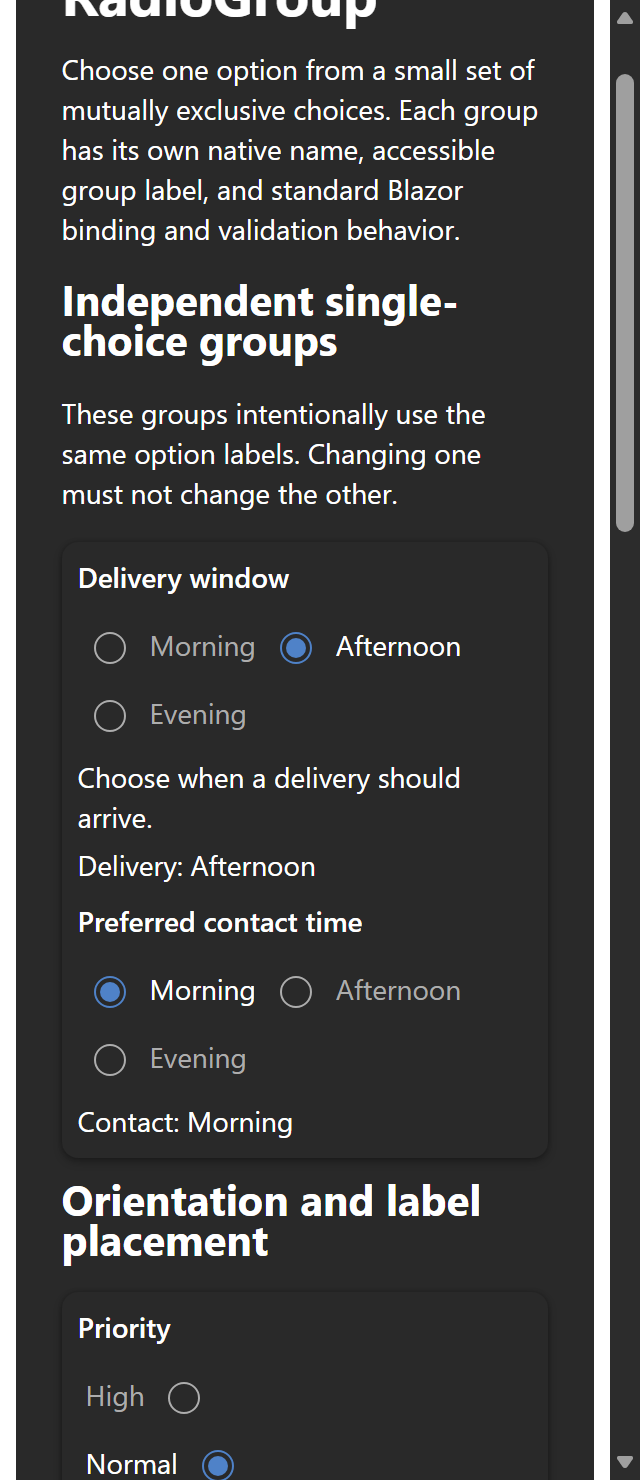
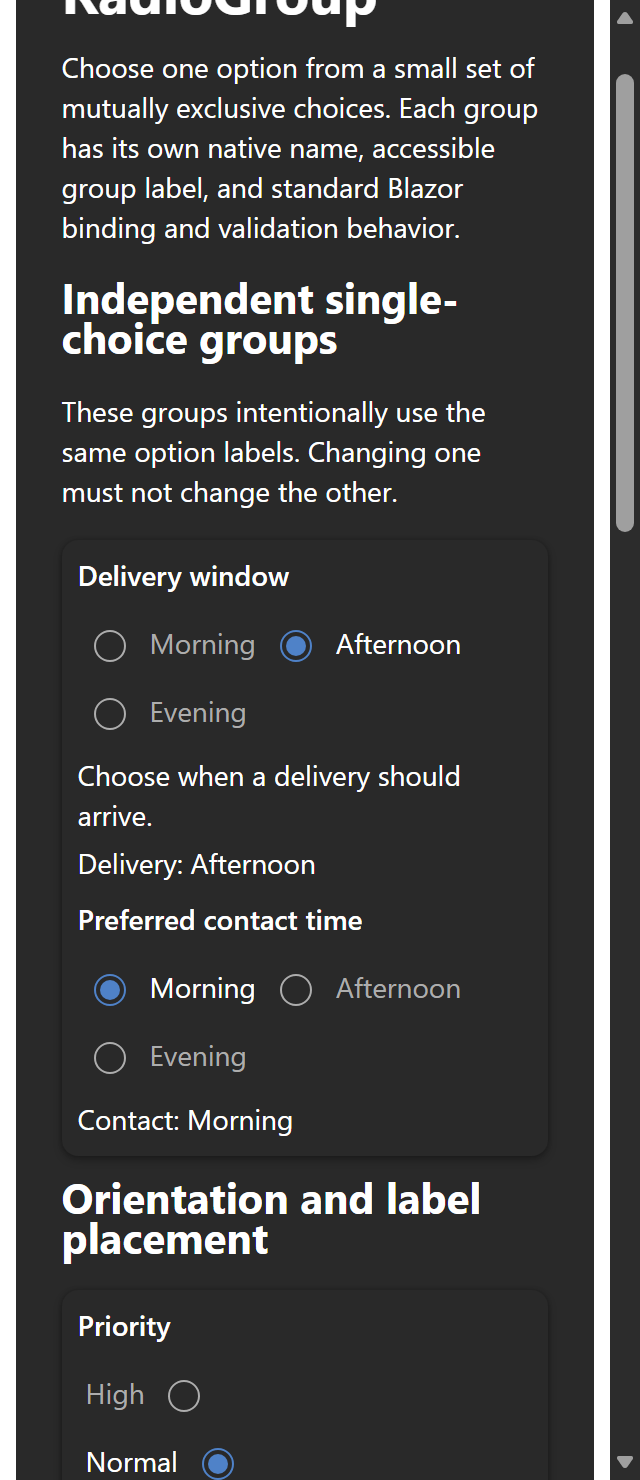
fix(v3): make RadioGroup indicator a native pointer target (#436)

diff --git a/src/Bluent.UI/Styles/Components/_radio.scss b/src/Bluent.UI/Styles/Components/_radio.scss
@@ -68,7 +68,7 @@
                         background-color: currentcolor;
                     }
 
-                    + label {
+                    + label.option-label {
                         color: var(--colorNeutralForeground1);
                     }
                 }
@@ -100,7 +100,7 @@
                     border-color: var(--colorNeutralStrokeDisabled);
                     color: var(--colorNeutralForegroundDisabled);
 
-                    + label {
+                    + label.option-label {
                         color: var(--colorNeutralForegroundDisabled);
                         cursor: default;
                     }
@@ -126,7 +126,7 @@
             color: inherit;
         }
 
-        > label {
+        > label.option-label {
             align-self: center;
             margin-block-start: calc((16px - var(--lineHeightBase300)) / 2);
             padding: var(--spacingVerticalS) var(--spacingHorizontalXS);
@@ -149,7 +149,7 @@
                 order: 2;
             }
 
-            > label {
+            > label.option-label {
                 order: 1;
             }
         }

diff --git a/tests/RegexSampleGeneratorTest/RadioGroupRenderSemanticsTests.cs b/tests/RegexSampleGeneratorTest/RadioGroupRenderSemanticsTests.cs
@@ -52,7 +52,9 @@ public class RadioGroupRenderSemanticsTests
             Assert.That(markup, Does.Contain("aria-describedby=\"delivery-help\""));
             Assert.That(markup, Does.Contain("data-qa=\"delivery-group\""));
             Assert.That(markup, Does.Not.Contain("<fieldset name="));
-            Assert.That(markup, Does.Contain("<span class=\"indicator\" aria-hidden=\"true\"></span>"));
+            Assert.That(markup, Does.Contain("<label class=\"indicator\" for=\""));
+            Assert.That(markup, Does.Contain("aria-hidden=\"true\"></label>"));
+            Assert.That(markup, Does.Contain("<label class=\"option-label\" for=\""));
         });
     }
 
@@ -150,7 +152,7 @@ public class RadioGroupRenderSemanticsTests
             Assert.That(markup, Does.Contain("aria-label=\"Preferred contact method\""));
             Assert.That(markup, Does.Not.Contain("<legend"));
             Assert.That(GetAttribute(GetInputTags(markup).Single(), "aria-label"), Is.Null);
-            Assert.That(markup, Does.Contain("<label for="));
+            Assert.That(markup, Does.Contain("<label class=\"option-label\" for="));
         });
     }
 

diff --git a/scripts/quality/check_v3_component_lab.py b/scripts/quality/check_v3_component_lab.py
@@ -361,6 +361,11 @@ def check() -> int:
         assert f'class="{label}" role="status" lang="en" dir="ltr"' in source
     assert '.lab-canvas[dir="rtl"] .lab-radio-card p { text-align:right; }' in css
     assert "RTL Radio English statuses keep LTR punctuation and align right within spaced cards" in (ROOT/"scripts/quality/probe_v3_component_lab.mjs").read_text(encoding="utf-8-sig")
+    radio_probe = (ROOT/"scripts/quality/probe_v3_component_lab.mjs").read_text(encoding="utf-8-sig")
+    for selector in ("#lab-radio-pm + .indicator", "#lab-radio-low + .indicator",
+                     "#lab-radio-disabled + .indicator"):
+        assert selector in radio_probe, f"RadioGroup pointer probe must target the current native indicator: {selector}"
+    assert "label.indicator[for=lab-radio-pm]" not in radio_probe, "stale pre-native RadioGroup indicator selector must not return"
     radio_queue=next(e for e in json.loads(QUEUE.read_text(encoding="utf-8-sig"))["families"]
                      if e["family"]=="RadioGroup")
     assert radio_queue["scenarioId"] == "radio-group-choice-orientation-disabled"

diff --git a/scripts/quality/check_v3_radiogroup_contract.py b/scripts/quality/check_v3_radiogroup_contract.py
@@ -55,6 +55,10 @@ def check_radiogroup_contract(root: Path = ROOT) -> None:
                   ' value="@GetInputValue()"', 'checked="@IsChecked"', 'id="@Id"',
                   '@onchange="HandleOnChange"'):
         need(token in radio, f"native radio markup missing: {token}")
+    need('<label class="indicator" for="@Id" aria-hidden="true"></label>' in radio,
+         "radio indicator must be a native associated label so its visual hit target activates the input")
+    need('<label class="option-label" for="@Id">@Label</label>' in radio,
+         "radio option text must remain the accessible native label")
     for token in ("EditorRequired", "CultureInfo.InvariantCulture",
                   "OnValueChanged += OnValueChanged", "OnValueChanged -= OnValueChanged",
                   'attributes["aria-invalid"] = "true"'):

diff --git a/docs/v3/design/RADIOGROUP-DESIGN-AND-API-CONTRACT.md b/docs/v3/design/RADIOGROUP-DESIGN-AND-API-CONTRACT.md
@@ -13,7 +13,7 @@
 
 | Board | Penpot ID | Design intent | Implementation relation |
 |---|---|---|---|
-| Anatomy, visual states and API | 0125a79e-69b2-807f-8008-f726bd61b423 | fieldset / legend, native option label/input anatomy, horizontal and vertical composition, rest/selected/focus/disabled states and API boundary | Source uses native fieldset / legend; group/option inputs remain native; existing orientation and label-position API is preserved |
+| Anatomy, visual states and API | 0125a79e-69b2-807f-8008-f726bd61b423 | fieldset / legend, native indicator-label and text-label/input anatomy, horizontal and vertical composition, rest/selected/focus/disabled states and API boundary | Source uses native fieldset / legend; group/option inputs remain native; existing orientation and label-position API is preserved |
 | Keyboard and accessibility | 0125a79e-69b2-807f-8008-f726c1464f5d | Tab entry, arrow traversal, Space, disabled skipping, independent group names, accessible name, EditContext and attribute ownership | Actual CDP tests exercise all listed keyboard behavior, two-group isolation, Chromium accessibility tree and live validation |
 | RTL, responsive and state matrix | 0125a79e-69b2-807f-8008-f726c665a5cf | Persian/RTL ordering, 1440/768/320/390 viewport concepts, Light/Dark/High Contrast and Rest/Selected/Hover/Pressed/Focus/Disabled/Invalid states | RTL and 320px/1280px browser checks are retained; theme/forced-colors checks are browser-emulated and do not approve design colors or native OS contrast |
 
@@ -24,6 +24,8 @@ The anatomy proposal calls for a shared native name, an actual native option val
 The design uses the semantic HTML fieldset / legend pattern instead of a custom div[role=radiogroup]. This is intentional: the child controls remain native radio inputs, the browser owns grouping through the shared name, and the component keeps its existing typed InputBase binding. No extra ARIA radiogroup role or custom JavaScript keyboard system is required for this implementation.
 
 When Label is non-empty, it becomes the visible legend. When the visual legend is omitted, the consumer must pass aria-label or aria-labelledby to the group. Each option needs its own accessible name via Radio.Label or a supported native accessible-name attribute.
+
+Each Radio uses two labels associated with the same native input: the 16px visual indicator is a second `label.indicator[for]` with `aria-hidden="true"` (so the decorative circle remains a real pointer hit target), while the separate `.option-label[for]` carries the visible/readable caption. This preserves native label activation for both `ItemsLabelPosition.Before` and `After`; the indicator itself is not announced as a duplicate option name.
 
 ## API preservation and attribute precedence
 
@@ -37,7 +39,7 @@ The local real-browser test matrix is four separate cells: Chrome/WebAssembly, E
 
 The first server 320px run caught overflow from the demo's unwrapped copyable pre/code specimen, not from RadioGroup. The showcase now has scoped pre wrapping, and the original full-page no-overflow assertion remains enabled.
 
-These browser assertions do not provide native Windows Contrast Themes, physical screen-reader speech, VoiceOver/NVDA/Narrator acceptance, or final Penpot visual approval.
+A native Windows High Contrast smoke check was also performed on Dev01 (Windows 11 Pro build 28000): the OS `High Contrast White` scheme was toggled on via Win32, the live component was captured, and the Windows UI Automation tree exposed named groups and named radio buttons with correct selected/disabled state. See `docs/v3/quality/evidence/BLUENT-RADIOGROUP-WINDOWS-NATIVE.md` and the retained PNG. The original High Contrast flags (126, disabled) were restored after the capture. Narrator was launched, but spoken speech could not be independently audited; spoken Narrator/NVDA/VoiceOver acceptance is still open. The three Penpot boards remain DRAFT and have no maintainer sign-off.
 
 ## Token and foundation boundary
 
@@ -47,5 +49,5 @@ Only already-shipped source CSS roles are used. No preview-only #418 alias is co
 
 - Maintainer visual review/sign-off on the three editable DRAFT Penpot boards.
 - Exact-head GitHub Actions for the implementation PR.
-- Native OS high-contrast and named assistive-technology review.
+- Spoken screen-reader acceptance (Narrator/NVDA/VoiceOver); native High Contrast and Windows UIA semantics have a recorded smoke check, not full conformance sign-off.
 - Full public component-family acceptance and the wider #421 ledger remain separate from this task's own four-cell browser evidence.

diff --git a/docs/v3/components/radio-group.md b/docs/v3/components/radio-group.md
@@ -54,7 +54,9 @@ With a non-empty Label, the group renders a native fieldset with an associated l
 Every nested option renders a native input[type=radio] with:
 - the same name as its sibling options;
 - its own native value;
-- a stable generated id and associated label;
+- a stable generated id and associated labels;
+- a 16px visual indicator implemented as a second native `<label for="…">` hit target with `aria-hidden="true"`, so clicking the indicator activates the input even when the text caption is positioned before it;
+- a separate `.option-label` native label that supplies the visible/readable option name;
 - native disabled state when disabled at group or option level.
 
 No custom JavaScript keyboard layer is used. The real-browser matrix verifies that the browser keeps the selected radio as the single Tab stop, enters an unselected group at its first enabled option, moves with Arrow keys, wraps within that group, skips disabled options, and selects with Space. Two adjacent groups that repeat the same values remain independent because their names differ.
@@ -113,7 +115,7 @@ This is a runnable v3 task-branch example, not an instruction to install an unre
 
 Aggregate local browser evidence: **104/104 assertions**. Each browser cell also captured initial/320px/1280px PNGs and a JSON report under docs/v3/quality/evidence/. Assertions include the actual Chromium accessibility tree, native Tab/Arrow/Space/pointer input, independent group names, native form FormData, EditContext invalidation, RTL, dark-theme CSS computation, forced-colors emulation and 320px no-overflow/hit-target checks.
 
-Evidence boundaries: forced-colors is browser emulation, not native Windows Contrast Themes. Dark mode was checked through the host theme attribute and computed styles, not every brand/mode. Native Narrator/NVDA/VoiceOver speech, native OS contrast, and an independent Penpot reviewer sign-off have **not** been completed. Screenshots are retained evidence, not a claim of approved pixel parity.
+Native Windows evidence (Dev01, Windows 11 Pro build 28000): the real `High Contrast White` scheme was enabled through `SystemParametersInfo(SPI_SETHIGHCONTRAST)`, the live RadioGroup page was captured in that OS mode, and the Windows UI Automation tree exposed named `group` and `radiobutton` controls with option names, selected state and disabled state. The screenshot is retained at `docs/v3/quality/evidence/BLUENT-RADIOGROUP-WINDOWS-HIGH-CONTRAST.png`; the native setting was restored to its original disabled state (flags 126) immediately after capture. This is a native OS visual/UIA smoke check, not complete Windows High Contrast Themes conformance certification. Narrator was launched, but spoken output could not be independently audited; Narrator/NVDA/VoiceOver spoken acceptance remains open. The three Penpot boards also remain DRAFT pending independent visual sign-off. Screenshots are retained evidence, not a claim of approved pixel parity.
 
 ## 2.x → v3 migration boundary
 
@@ -123,4 +125,4 @@ See [migration impact M24](../design/MIGRATION-IMPACT-LEDGER.md) and the separat
 
 ## Acceptance boundary
 
-The component is still **In progress**. The three editable Penpot Page 59 boards — anatomy/API (0125a79e-69b2-807f-8008-f726bd61b423), keyboard/accessibility (0125a79e-69b2-807f-8008-f726c1464f5d), and RTL/responsive coverage (0125a79e-69b2-807f-8008-f726c665a5cf) — remain DRAFT pending maintainer visual review. Exact-head hosted CI, native OS contrast and assistive-technology acceptance remain separate gates. This task does not close #418 or #421, approve preview tokens, merge into stable Dev, publish NuGet or deploy.
+The component is still **In progress**. The three editable Penpot Page 59 boards — anatomy/API (0125a79e-69b2-807f-8008-f726bd61b423), keyboard/accessibility (0125a79e-69b2-807f-8008-f726c1464f5d), and RTL/responsive coverage (0125a79e-69b2-807f-8008-f726c665a5cf) — remain DRAFT pending maintainer visual review. Exact-head hosted CI for the latest pointer-label patch and spoken assistive-technology acceptance remain open; native High Contrast and Windows UIA semantics have been exercised and recorded separately. This task does not close #418 or #421, approve preview tokens, merge into stable Dev, publish NuGet or deploy.

diff --git a/.agents/skills/bluent-v3-radiogroup/SKILL.md b/.agents/skills/bluent-v3-radiogroup/SKILL.md
@@ -23,6 +23,7 @@
 - Native type, name, value, checked, generated id and tabindex are component-owned. Preserve other non-conflicting attributes, including disabled, aria-*, data-* and title.
 - EditContext.OnValidationStateChanged subscription is synchronized as context changes and removed on disposal. Children rerender aria-invalid when validation messages change.
 - Keep browser-owned keyboard behavior. Do not add custom JavaScript unless a real browser test demonstrates a required native behavior that fails.
+- The visual indicator is itself a second native `label.indicator[for]` with `aria-hidden="true"`; the readable caption is a separate `.option-label[for]`. Preserve this association so the visible circle activates the native radio in both Before and After layouts.
 - Do not invent Size, Appearance, HelperText, ErrorMessage, Required, public Name, keyboard-mode or ARIA-role parameters. Do not consume preview-only #418 token aliases.
 
 ## Verification
@@ -36,7 +37,7 @@ dotnet build src/Bluent.UI.Demo/Bluent.UI.Demo.csproj -c Debug --no-restore -war
 dotnet build src/Bluent.UI.Demo.SSR/Bluent.UI.Demo.SSR.csproj -c Release --no-restore -warnaserror
 ~~~
 
-The current four-cell local real-browser baseline is **26/26 per cell (104/104 total)**. This covers browser AX, native Tab/Arrow/Space, disabled skipping, pointer binding, EditContext and native form submission, RTL, forced-colors emulation and 320px reflow. Forced-colors emulation is not native Windows Contrast Themes; Chromium AX is not spoken screen-reader acceptance. See JSON/PNG reports under docs/v3/quality/evidence/.
+The current four-cell local real-browser baseline is **26/26 per cell (104/104 total)**. This covers browser AX, native Tab/Arrow/Space, disabled skipping, pointer binding, EditContext and native form submission, RTL, forced-colors emulation and 320px reflow. Forced-colors emulation is not native Windows Contrast Themes. A native Windows 11 Pro 28000 High Contrast White smoke check and Windows UIA tree inspection are now recorded in `docs/v3/quality/evidence/BLUENT-RADIOGROUP-WINDOWS-NATIVE.md` with PNG evidence; original OS flags were restored. Narrator was launched, but spoken output was not independently verified. Chromium AX/UIA tree semantics are not spoken screen-reader acceptance. See JSON/PNG reports under docs/v3/quality/evidence/.
 
 ## Ownership and finish rule
 

diff --git a/docs/v3/quality/evidence/BLUENT-RADIOGROUP-WINDOWS-NATIVE.md b/docs/v3/quality/evidence/BLUENT-RADIOGROUP-WINDOWS-NATIVE.md
@@ -1,0 +1,30 @@
+# RadioGroup — native Windows accessibility smoke evidence
+
+**Date:** 2026-11-19
+**Host:** Dev01 · Microsoft Windows 11 Pro · build 28000
+**Target:** `http://127.0.0.1:59000/components/radios` in Microsoft Edge
+**Component source:** task branch `v3/issue-436-radiogroup`
+
+## Native High Contrast
+
+- The original Windows `HIGHCONTRAST.dwFlags` value was `126` (`High Contrast White` selected, enable bit clear).
+- `SystemParametersInfoW(SPI_SETHIGHCONTRAST)` enabled the actual OS High Contrast White mode; a second native read returned flags `127` with the enable bit set.
+- The live RadioGroup page was captured while that OS flag was active. Retained capture: `BLUENT-RADIOGROUP-WINDOWS-HIGH-CONTRAST.png` (1004 × 700).
+- A `finally` restoration call returned the exact original flags `126`; a native read verified High Contrast disabled again. Narrator was also stopped after the check.
+
+This is an actual OS-level visual smoke capture, not the browser `forced-colors` emulation used by the four-cell CDP suite. It does not by itself certify all theme colors or every Windows contrast palette.
+
+## Windows UI Automation semantics
+
+The `windows-uia` tree for the live page exposed native groups and options rather than flattened text:
+
+- `Delivery window` → `Morning` (selected), `Afternoon`, `Evening`.
+- `Preferred contact time` → `Morning`, `Afternoon`, `Evening` (selected).
+- Other groups included `Priority`, `Delivery speed`, `Availability`, `Quiet hours preference`, `Alert frequency`, RTL language selection and `Choose a delivery window`.
+- Options surfaced as `radiobutton` with their accessible option name, `selected` state and `enabled` state; the disabled `Express` / `Unavailable` options were reported disabled.
+
+This verifies the native Windows UIA roles/names/state exposed by the component in the inspected tree. It is not spoken assistive-technology acceptance.
+
+## Screen reader boundary
+
+Windows Narrator was launched for the inspection and then stopped. The session could not independently capture or audit its spoken output, and reliable Narrator scan-mode keyboard interaction could not be established. Therefore **Narrator spoken acceptance is not claimed**. Named Narrator/NVDA/VoiceOver review remains open.
